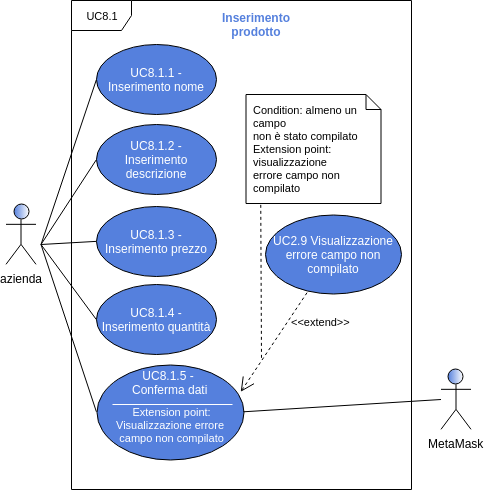
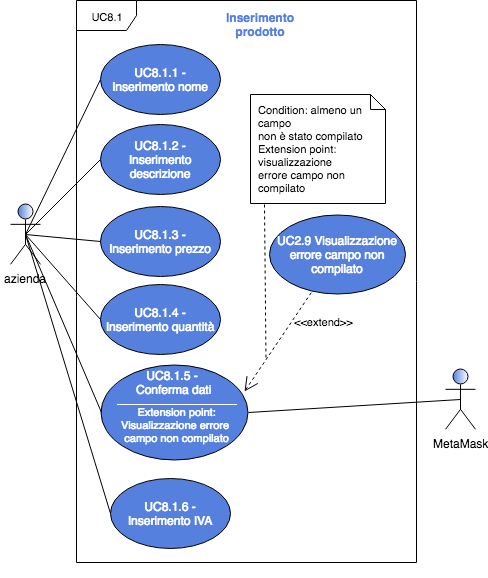
fix decisi su trello
-aggiungere al pagamento anche l'inserimento dell'indirizzo di spedizione

-aggiungere al prodotto (8.1) l'iva ed il prezzo netto, non serve il lordo

-permettere nella visualizzazione dell'ordine di vedere al posto del prezzo lordo, il netto e l'IVA, in quanto sono le uniche cose sulle quali l'azienda può lamentarsi

Changed region(s): [[0.0, 0.0, 1.0, 0.9776], [0.4339, 0.0, 0.6198, 0.0916], [0.5888, 0.6415, 0.7128, 0.6721]]

diff --git a/RR/Esterni/Analisi_dei_requisiti/res/sections/UC/UC8-GestioneBeniVenduti.tex b/RR/Esterni/Analisi_dei_requisiti/res/sections/UC/UC8-GestioneBeniVenduti.tex
@@ -33,9 +33,10 @@
 	\begin{itemize}
 		\item inserire il nome del prodotto/servizio [UC8.1.1];
 		\item inserire la descrizione del prodotto/servizio [UC8.1.2];
-		\item inserire il prezzo unitario del prodotto/servizio [UC8.1.3];
+		\item inserire il prezzo netto unitario del prodotto/servizio [UC8.1.3];
 		\item inserire la quantità disponibile del prodotto/servizio [UC8.1.4];
 		\item confermare i dati inseriti [UC8.1.5];
+		\item inserire l'IVA del prodotto/servizio [UC8.1.6].
 	\end{itemize}
 	\item \textbf{Precondizione}: il sistema ha identificato l'utente come azienda, l'azienda ha espresso la volontà di inserire un nuovo prodotto/servizio;
 	\item \textbf{Postcondizione}: l'azienda ha inserito correttamente i dati relativi al nuovo prodotto ed è riuscita ad inserire il nuovo prodotto/servizio sulla piattaforma.	
@@ -56,10 +57,10 @@
 	\item \textbf{Precondizione}: il sistema ha reso disponibile il form per l'inserimento di un nuovo prodotto/servizio, in particolare è presente il campo per l'inserimento della descrizione;
 	\item \textbf{Postcondizione}: l'utente ha compilato il campo relativo alla descrizione del nuovo prodotto da inserire.
 \end{itemize}
-\subsubsection{UC8.1.3 - Inserimento prezzo}
+\subsubsection{UC8.1.3 - Inserimento prezzo netto}
 \begin{itemize}
 	\item \textbf{Attori Primari}: azienda;
-	\item \textbf{Descrizione}: al fine di portare a termine il processo di inserimento di un nuovo prodotto l'utente deve inserire il prezzo unitario del prodotto, campo ritenuto obbligatorio;
+	\item \textbf{Descrizione}: al fine di portare a termine il processo di inserimento di un nuovo prodotto l'utente deve inserire il prezzo netto unitario del prodotto, campo ritenuto obbligatorio;
 	\item \textbf{Scenario principale}: l'utente compila il campo relativo al prezzo del nuovo prodotto/servizio da inserire;
 	\item \textbf{Precondizione}: il sistema ha reso disponibile il form per l'inserimento di un nuovo prodotto/servizio, in particolare è presente il campo per l'inserimento del prezzo;
 	\item \textbf{Postcondizione}: l'utente ha compilato il campo relativo al prezzo del nuovo prodotto da inserire.
@@ -85,7 +86,14 @@
 	\item \textbf{Precondizione}: il sistema ha reso disponibile il form per l'inserimento dei dati riguardanti il nuovo prodotto, l'utente ha compilato tutti i campi ed ha premuto il pulsante per la conferma.
 	\item \textbf{Postcondizione}: il nuovo prodotto è stato inserito nella piattaforma e l'utente ottiene la conferma della riuscita dell'operazione.
 \end{itemize}
-
+\subsubsection{UC8.1.6 - Inserimento IVA}
+\begin{itemize}
+	\item \textbf{Attori Primari}: azienda;
+	\item \textbf{Descrizione}: al fine di portare a termine il processo di inserimento di un nuovo prodotto l'utente deve inserire la percentuale di IVA;
+	\item \textbf{Scenario principale}: l'utente compila il campo relativo all'IVA del nuovo prodotto/servizio da inserire;
+	\item \textbf{Precondizione}: il sistema ha reso disponibile il form per l'inserimento di un nuovo prodotto/servizio, in particolare è presente il campo per l'inserimento dell'IVA;
+	\item \textbf{Postcondizione}: l'utente ha compilato il campo relativo all'IVA del nuovo prodotto da inserire.
+\end{itemize}
 \subsubsection{UC8.2 - Visualizzazione prodotto}
 \begin{figure}[h]
 	\includegraphics[width=6cm]{res/images/UC8-Visualizzazione.png}

diff --git a/RR/Esterni/Analisi_dei_requisiti/res/sections/UC/UC7-AcquistoBeni.tex b/RR/Esterni/Analisi_dei_requisiti/res/sections/UC/UC7-AcquistoBeni.tex
@@ -22,6 +22,10 @@
 	\item \textbf{Attori Primari}: cittadino, azienda;
 	\item \textbf{Descrizione}: l'utente effettua il checkout per poter poi acquistare i prodotti inseriti nel carrello;
 	\item \textbf{Scenario}: l'utente preme il pulsante per effettuare il checkout;
+	\item \textbf{Inclusioni}: 
+	\begin{itemize}
+		\item \textbf{UC7.6}: l'utente inserisce l'indirizzo di spedizione;
+	\end{itemize}
 	\item \textbf{Estensioni}: 
 	\begin{itemize}
 		\item \textbf{UC7.4}: l'utente preme il pulsante di checkout senza aver ancora inserito almeno un prodotto/servizio nel carrello;
@@ -119,4 +123,15 @@
 	\item \textbf{Precondizione}: il sistema permette all'utente di procedere con il pagamento, ovvero l'ordine è stato confermato da parte dell'utente;
 	\item \textbf{Postcondizione}:
 	l'utente è consapevole che l'acquisto non è andato a buon fine, e che ottenere informazioni più precise dovrà riferirsi al messaggio di errore riportato dal plugin. 
+\end{itemize}
+
+\subsubsection{UC7.6 - Inserimento indirizzo spedizione}
+\begin{itemize}
+	\item \textbf{Attori Primari}: azienda, cittadino;
+	\item \textbf{Descrizione}:
+	l'utente visualizza un form dove inserire l'indirizzo di spedizione.
+	\item \textbf{Scenario}: l'utente sta eseguendo la fase di checkout e per continuare deve inserire tale indirizzo;
+	\item \textbf{Precondizione}: non è stato fornito alcun indirizzo pertanto per continuare è necessario inserirlo nell'apposito form;
+	\item \textbf{Postcondizione}:
+	l'utente ha inserito l'indirizzo di spedizione e può continuare concludendo il checkout. 
 \end{itemize}
